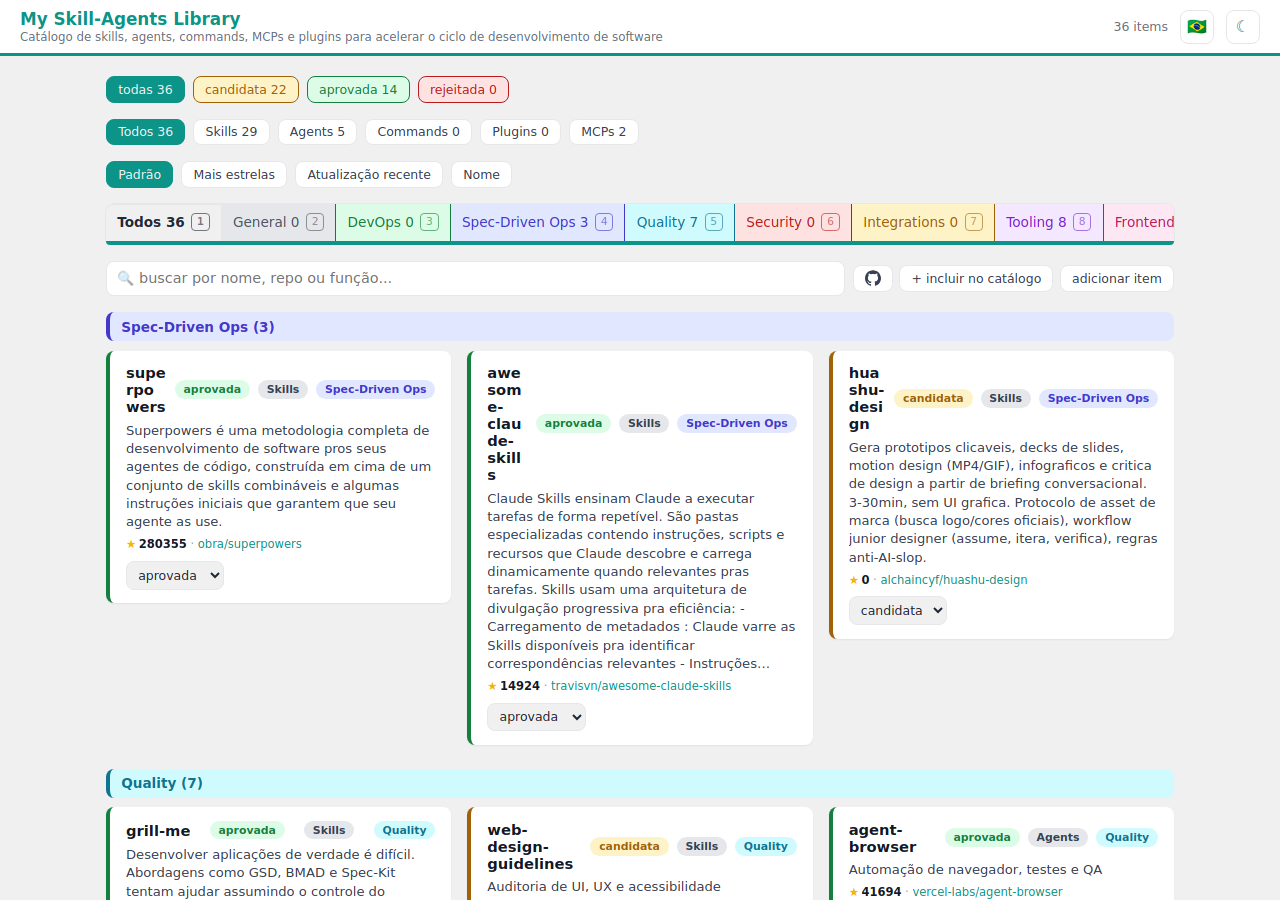
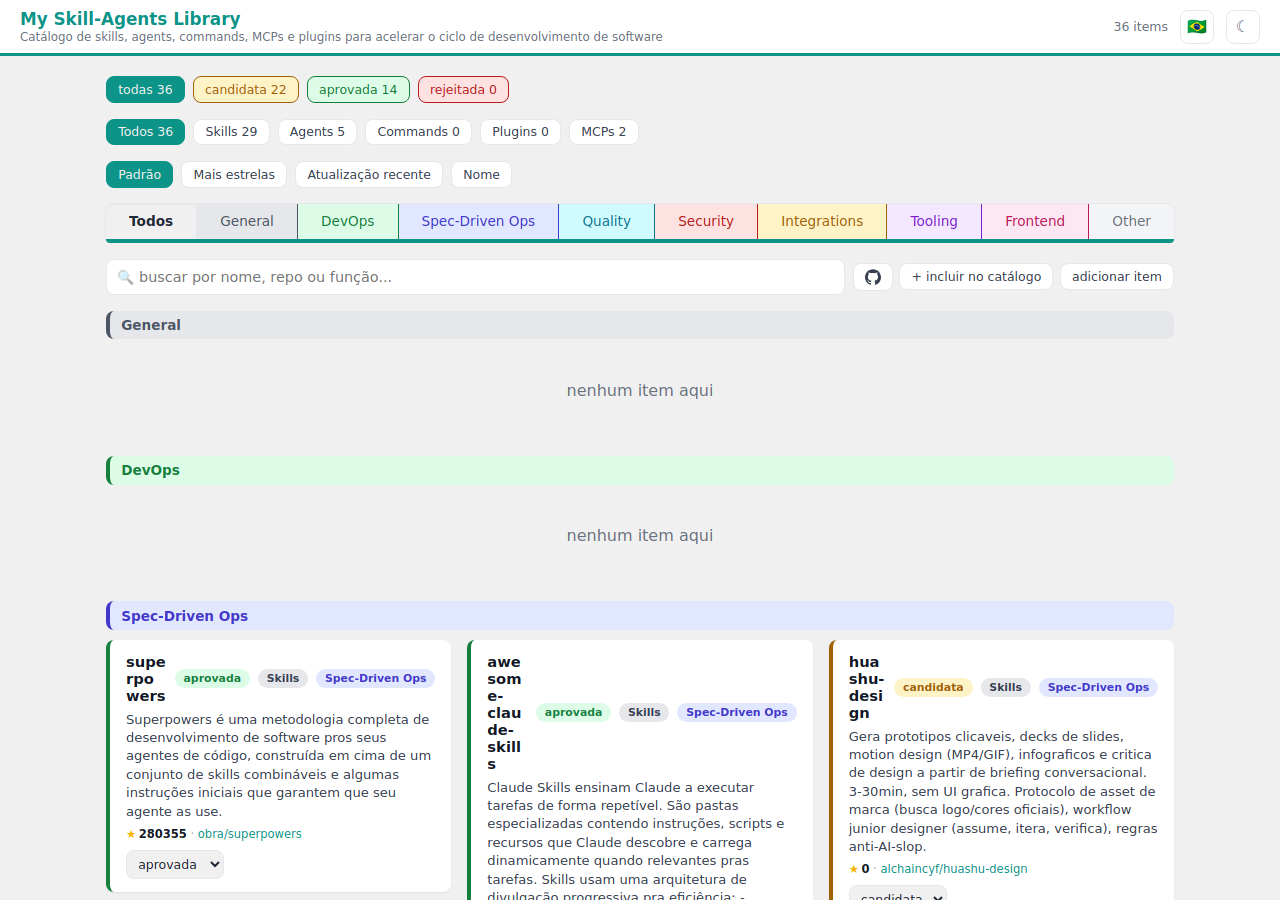
fix: drop item count from purpose section header
The count already lives on the matching tab above ("Spec-Driven Ops
3"); the section header now shows just the purpose label.

Claude-Session: https://claude.ai/code/session_015HJhdv2NVHp8ftTBC2Pkqs

diff --git a/src/generator.py b/src/generator.py
@@ -860,7 +860,7 @@ function renderSections(filtered) {
 
     const head = document.createElement("div");
     head.className = "section-head purpose-" + purpose;
-    head.textContent = purposeLabel(purpose) + " (" + group.length + ")";
+    head.textContent = purposeLabel(purpose);
     section.appendChild(head);
 
     if (group.length === 0) {

diff --git a/docs/CODEBASE_MAP.md b/docs/CODEBASE_MAP.md
@@ -161,7 +161,7 @@ tests/
 - `renderAddModal()` / `openAddModal(prefillName)` / `closeAddModal()`: the add-item form (`EDITABLE` fields) now lives in a modal overlay (`addModalOpen` state), not a permanently-rendered card — same overlay/close pattern as `renderModal(item)`, closable via the "✕" button, a click on the overlay backdrop, or Escape.
 - `searchGithub()` does a direct, unauthenticated `fetch` to `api.github.com/search/repositories` from the browser — bypasses `api.py` entirely, so it's the one place besides `refresh_repo`/`enrich.py` that talks to GitHub, but from the client rather than the server (keeps the offline-first backend contract intact). Subject to GitHub's ~10 req/min unauthenticated rate limit.
 - `renderGithubResults()` / `renderGithubResultsHeader()` render the loading/error/empty/populated states of the GitHub search panel (name, description, ★ stars, link, a per-result "+ incluir" that POSTs `action: "add"` directly, and a "✕" that clears `ghResults`).
-- `renderSections()` groups filtered items by `purpose` in fixed order, one colored section per purpose — including empty ones, which render the header bar (with a "(0)" count) plus a "nenhum item aqui" placeholder instead of being omitted, so the tab bar's purpose colors stay a stable landmark whether or not a purpose currently has matches.
+- `renderSections()` groups filtered items by `purpose` in fixed order, one colored section per purpose — including empty ones, which still render the header bar (just the purpose label, no count — the count already lives on the tab above) plus a "nenhum item aqui" placeholder instead of being omitted, so the tab bar's purpose colors stay a stable landmark whether or not a purpose currently has matches.
 - `renderModal(item)` is the single edit surface: every `EDITABLE` field (`function` is a `<textarea>`, not `<input>`), plus `status`/`kind`/`purpose` selects, `personal_note`, and save/delete/refresh-from-GitHub actions. Save batches `edit` + conditional `set_status` + conditional `set_note` in one `Promise.all`.
 - Every DOM node is built with `createElement`/`textContent` — never `innerHTML` for item/repo data — the render-side half of the XSS defense (the write-side half is `api.py`'s field length caps and `_json_for_script_tag`'s `</script>` escape). The only `.innerHTML` uses are static trusted constants (`GITHUB_MARK_SVG`, the "✕" glyph), never data from `items.json` or the GitHub API.
 
